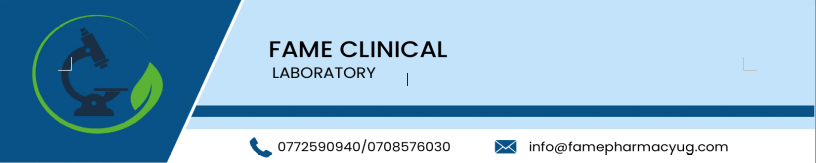
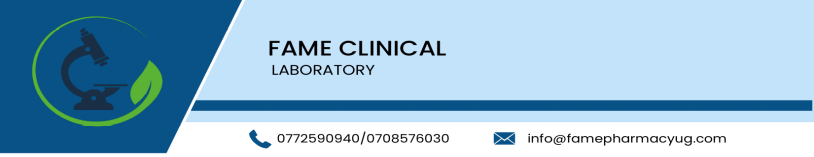
latest commit

diff --git a/resources/views/pdf.blade.php b/resources/views/pdf.blade.php
@@ -172,7 +172,12 @@
 </div>
 
   
-
+<footer>
+<div class="logo">   
+    <img src="{{ public_path('footer.png') }}" alt="Logo" alt="Logo" style="width:100%; height: auto; ">
+      
+    </div>
+</footer>
 
 <script src="https://cdn.jsdelivr.net/npm/bootstrap@5.2.3/dist/js/bootstrap.bundle.min.js" integrity="sha384-kenU1KFdBIe4zVF0s0G1M5b4hcpxyD9F7jL+jjXkk+Q2h455rYXK/7HAuoJl+0I4" crossorigin="anonymous"></script>
 </body>
